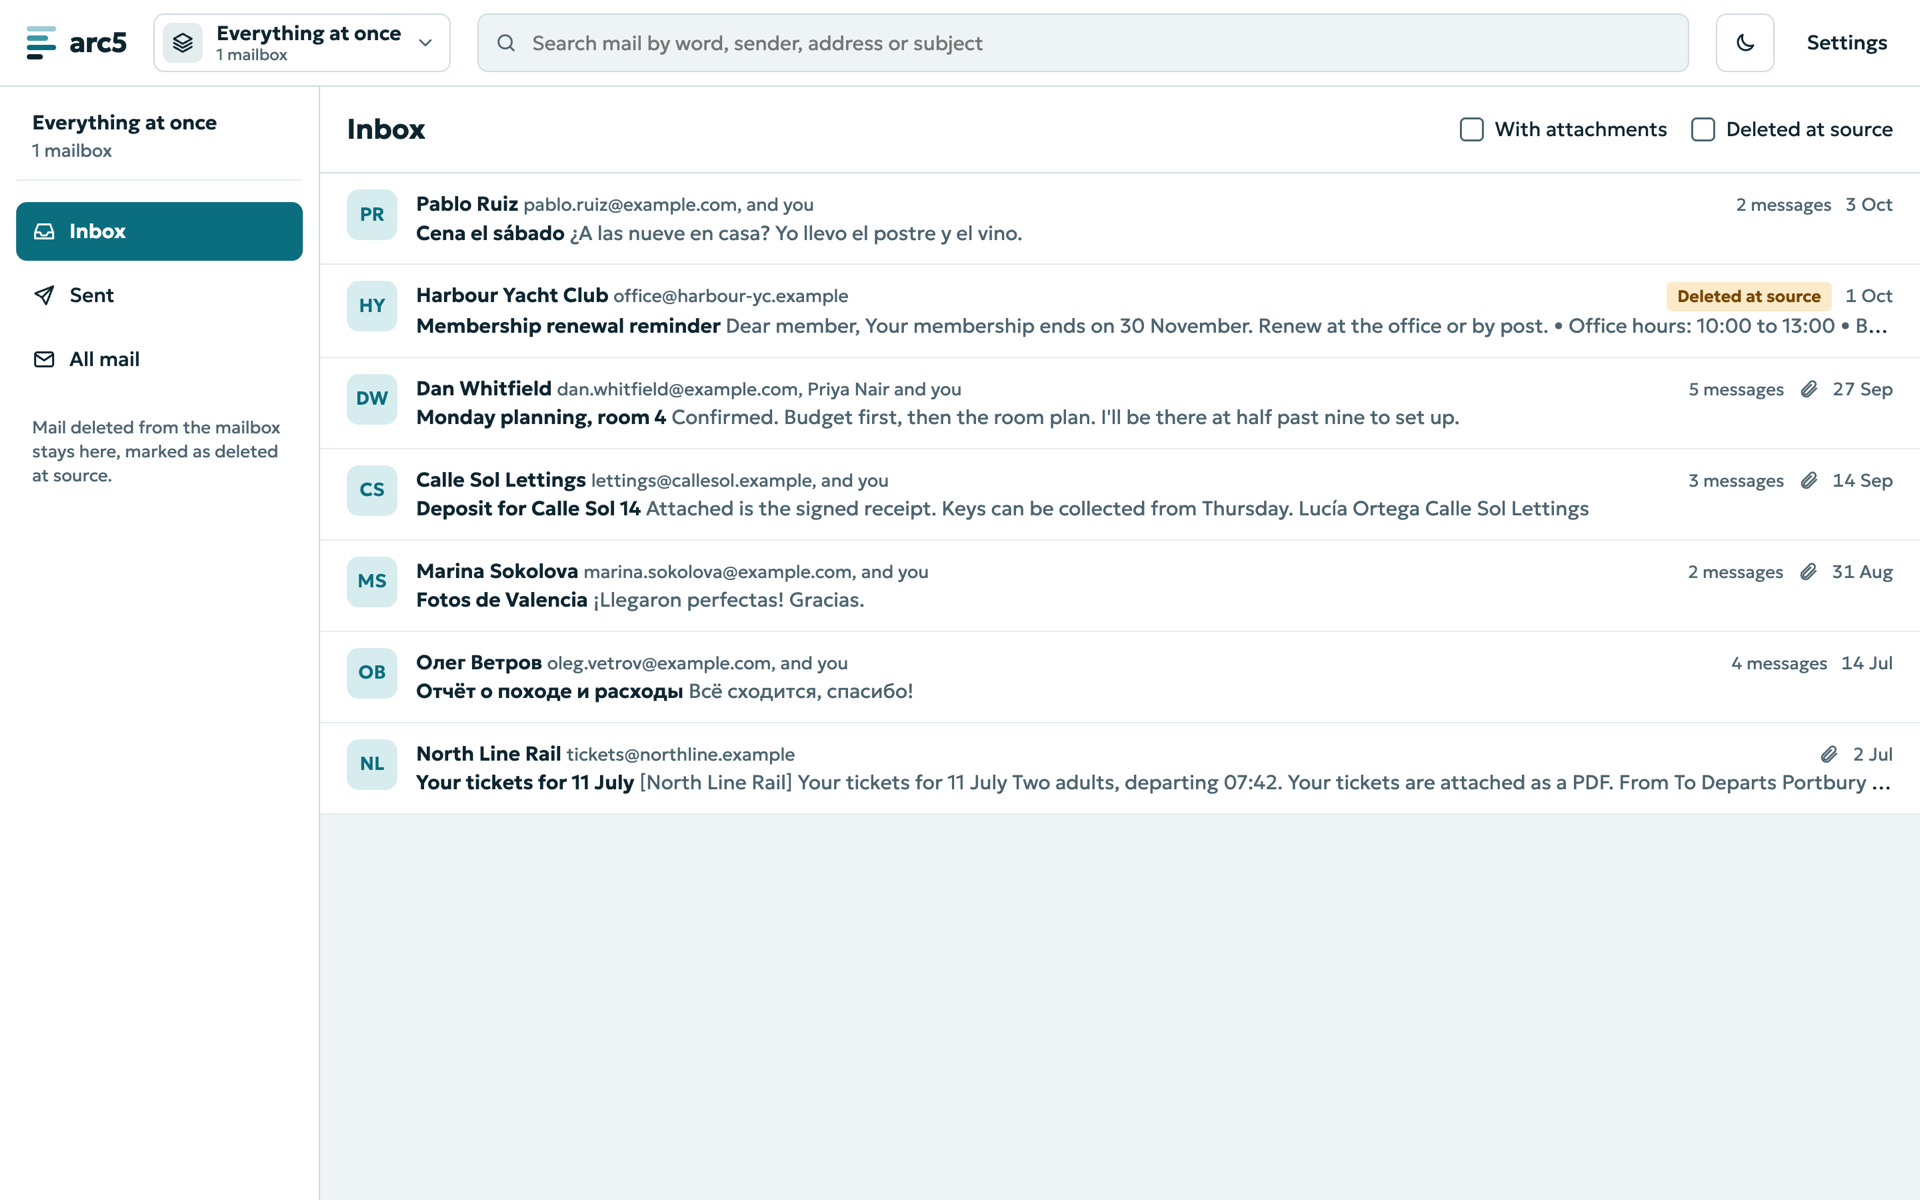
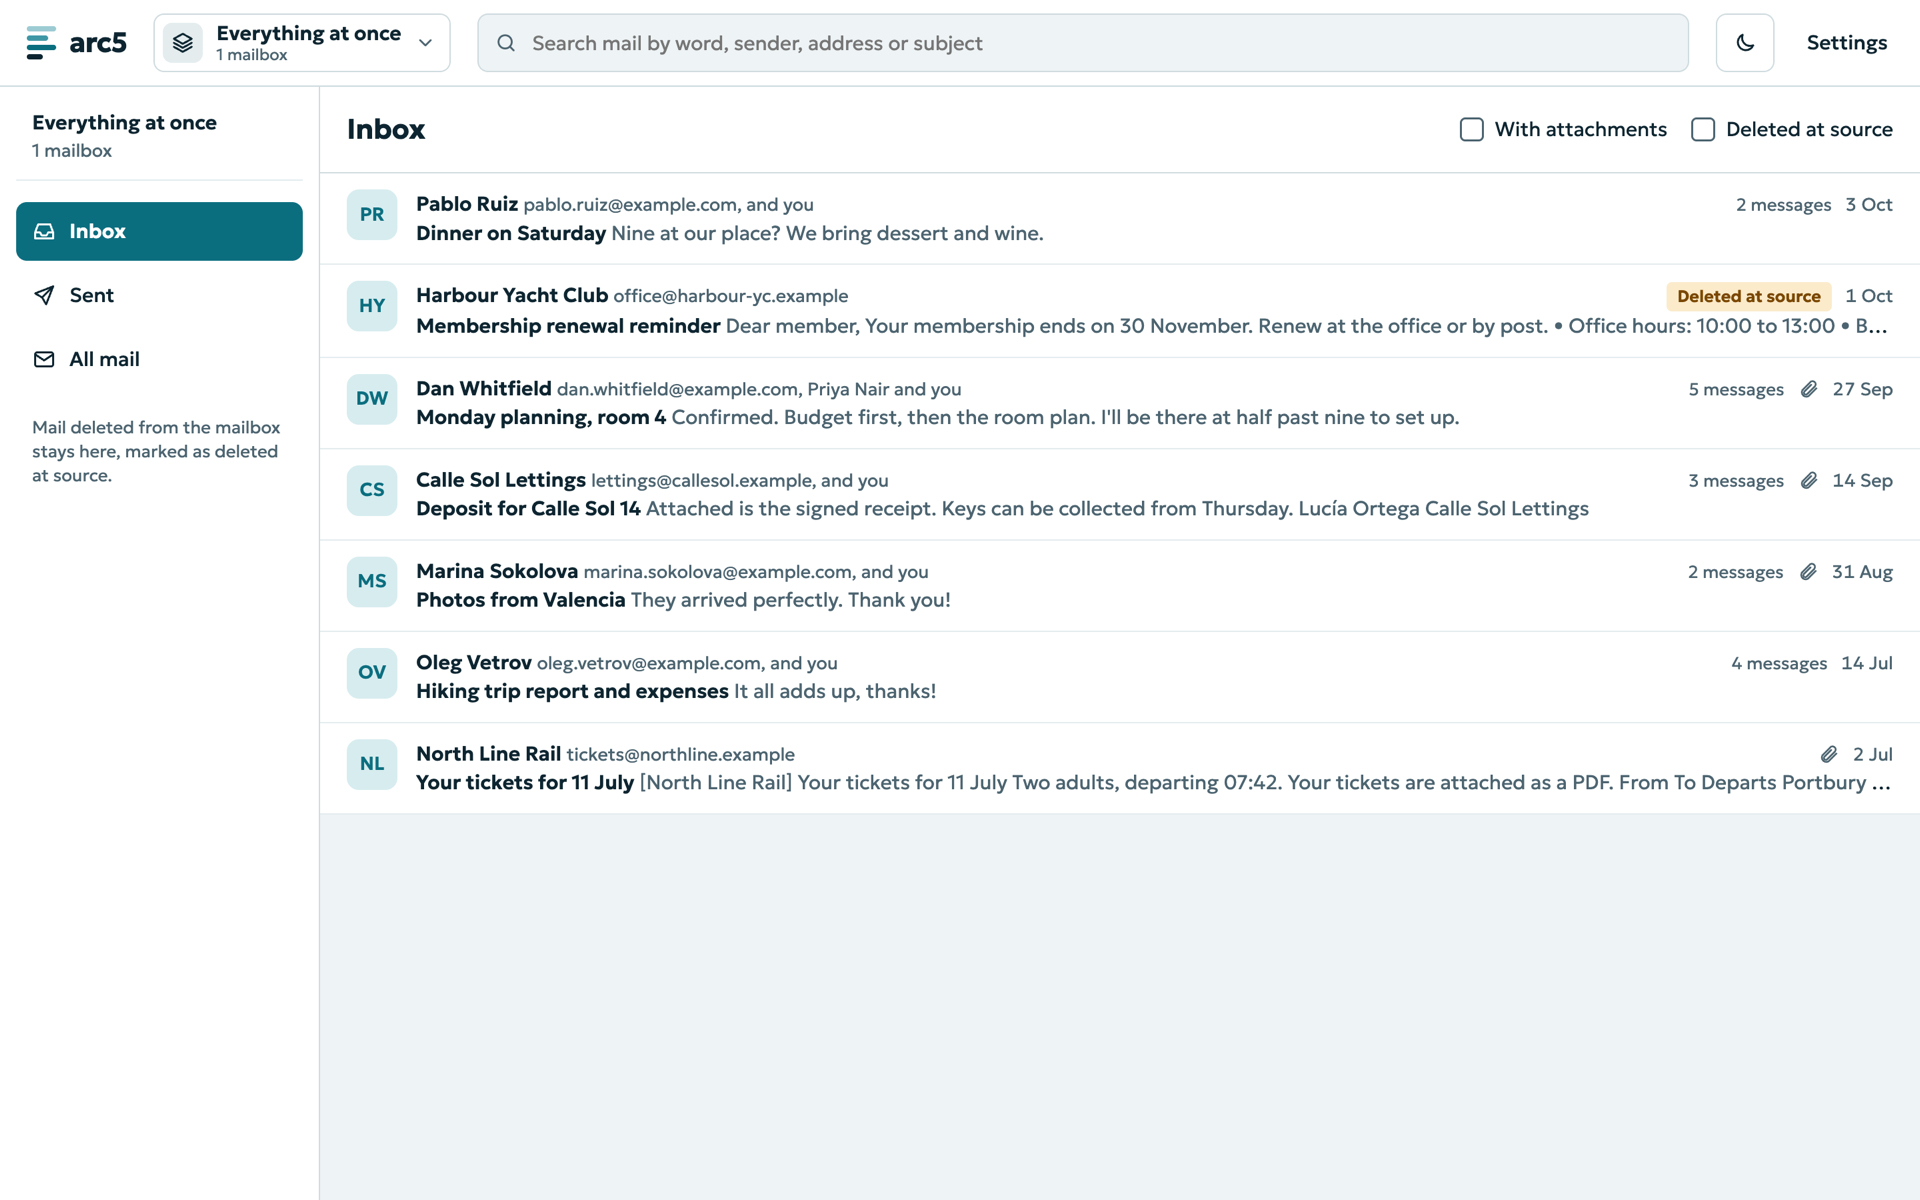
Make the demo archive English and retake the README screenshots
The demo's Russian and Spanish chats and mail are translated into English so
the screenshots read for anyone; the names stay. Search tests that cover
other languages keep their own fixtures.

Changed region(s): [[0.2188, 0.4933, 0.5, 0.5858], [0.2188, 0.185, 0.5312, 0.2158]]

diff --git a/internal/connector/demo/mail.go b/internal/connector/demo/mail.go
@@ -161,24 +161,24 @@ func seedMail(store *archive.Store) error {
 	)
 	photo := func(bg, fg color.RGBA) []byte { return portrait(bg, fg) }
 	letters := []letter{
-		{id: "olg-1@example.com", from: "Олег Ветров <oleg.vetrov@example.com>", to: me, subject: "Отчёт о походе и расходы", date: on(time.July, 12, 19, 5),
-			plain: "Привет! Выложил фото с похода. Расходы сведу к выходным.", folders: []string{"INBOX"}},
-		{id: "olg-2@example.org", inReplyTo: "olg-1@example.com", refs: []string{"olg-1@example.com"}, from: me, to: "Олег Ветров <oleg.vetrov@example.com>",
-			subject: "Re: Отчёт о походе и расходы", date: on(time.July, 12, 21, 30), plain: "Отлично, жду таблицу.", folders: []string{"Sent"}},
-		{id: "olg-3@example.com", inReplyTo: "olg-2@example.org", refs: []string{"olg-1@example.com", "olg-2@example.org"}, from: "Олег Ветров <oleg.vetrov@example.com>", to: me,
-			subject: "Re: Отчёт о походе и расходы", date: on(time.July, 14, 8, 15), plain: "Свёл расходы в таблицу, посмотрите, всё ли сходится.\n\nОлег", folders: []string{"INBOX"}},
-		{id: "olg-4@example.org", inReplyTo: "olg-3@example.com", refs: []string{"olg-1@example.com", "olg-3@example.com"}, from: me, to: "Олег Ветров <oleg.vetrov@example.com>",
-			subject: "Re: Отчёт о походе и расходы", date: on(time.July, 14, 9, 2), plain: "Всё сходится, спасибо!\n\n> Свёл расходы в таблицу, посмотрите, всё ли сходится.", folders: []string{"Sent"}},
+		{id: "olg-1@example.com", from: "Oleg Vetrov <oleg.vetrov@example.com>", to: me, subject: "Hiking trip report and expenses", date: on(time.July, 12, 19, 5),
+			plain: "Hi! Posted the photos from the hike. I will total up the costs by the weekend.", folders: []string{"INBOX"}},
+		{id: "olg-2@example.org", inReplyTo: "olg-1@example.com", refs: []string{"olg-1@example.com"}, from: me, to: "Oleg Vetrov <oleg.vetrov@example.com>",
+			subject: "Re: Hiking trip report and expenses", date: on(time.July, 12, 21, 30), plain: "Great, looking forward to the spreadsheet.", folders: []string{"Sent"}},
+		{id: "olg-3@example.com", inReplyTo: "olg-2@example.org", refs: []string{"olg-1@example.com", "olg-2@example.org"}, from: "Oleg Vetrov <oleg.vetrov@example.com>", to: me,
+			subject: "Re: Hiking trip report and expenses", date: on(time.July, 14, 8, 15), plain: "Put the costs in a spreadsheet, please check it all adds up.\n\nOleg", folders: []string{"INBOX"}},
+		{id: "olg-4@example.org", inReplyTo: "olg-3@example.com", refs: []string{"olg-1@example.com", "olg-3@example.com"}, from: me, to: "Oleg Vetrov <oleg.vetrov@example.com>",
+			subject: "Re: Hiking trip report and expenses", date: on(time.July, 14, 9, 2), plain: "It all adds up, thanks!\n\n> Put the costs in a spreadsheet, please check it all adds up.", folders: []string{"Sent"}},
 
 		{id: "nl-4471@northline.example", from: "North Line Rail <tickets@northline.example>", to: mailAddress, subject: "Your tickets for 11 July", date: on(time.July, 2, 10, 0),
 			html: ticketsHTML, files: []sampleFile{{"tickets-NL-4471.pdf", "application/pdf", pdf("Tickets NL-4471", 41_000)}}, folders: []string{"INBOX", "Receipts"}},
 
-		{id: "val-1@example.com", from: "Marina Sokolova <marina.sokolova@example.com>", to: me, subject: "Fotos de Valencia", date: on(time.August, 31, 18, 20),
-			plain: "Te mando las originales, pesan bastante. Dime si llegan bien.\n\nMarina",
-			files: []sampleFile{{"valencia-playa.png", "image/png", photo(color.RGBA{0x3E, 0x7C, 0xB1, 0xFF}, color.RGBA{0xF2, 0xD7, 0x9E, 0xFF})},
-				{"valencia-mercado.png", "image/png", photo(color.RGBA{0xB1, 0x5E, 0x3E, 0xFF}, color.RGBA{0xF6, 0xE7, 0xC8, 0xFF})}}, folders: []string{"INBOX"}},
+		{id: "val-1@example.com", from: "Marina Sokolova <marina.sokolova@example.com>", to: me, subject: "Photos from Valencia", date: on(time.August, 31, 18, 20),
+			plain: "Here are the originals, they are quite big. Tell me if they arrive.\n\nMarina",
+			files: []sampleFile{{"valencia-beach.png", "image/png", photo(color.RGBA{0x3E, 0x7C, 0xB1, 0xFF}, color.RGBA{0xF2, 0xD7, 0x9E, 0xFF})},
+				{"valencia-market.png", "image/png", photo(color.RGBA{0xB1, 0x5E, 0x3E, 0xFF}, color.RGBA{0xF6, 0xE7, 0xC8, 0xFF})}}, folders: []string{"INBOX"}},
 		{id: "val-2@example.org", inReplyTo: "val-1@example.com", refs: []string{"val-1@example.com"}, from: me, to: "Marina Sokolova <marina.sokolova@example.com>",
-			subject: "Re: Fotos de Valencia", date: on(time.August, 31, 20, 2), plain: "¡Llegaron perfectas! Gracias.", folders: []string{"Sent"}},
+			subject: "Re: Photos from Valencia", date: on(time.August, 31, 20, 2), plain: "They arrived perfectly. Thank you!", folders: []string{"Sent"}},
 
 		{id: "cs-1@example.org", from: me, to: "Calle Sol Lettings <lettings@callesol.example>", subject: "Deposit for Calle Sol 14", date: on(time.September, 12, 9, 30),
 			plain: "Hello,\n\nI sent the deposit for Calle Sol 14 this morning. Could you confirm when it arrives?\n\nThanks", folders: []string{"Sent"}},
@@ -205,10 +205,10 @@ func seedMail(store *archive.Store) error {
 		{id: "hyc-renewal@harbour-yc.example", from: "Harbour Yacht Club <office@harbour-yc.example>", to: mailAddress, subject: "Membership renewal reminder", date: on(time.October, 1, 8, 0),
 			html: renewalHTML, folders: []string{"INBOX"}},
 
-		{id: "cena-1@example.org", from: me, to: "Pablo Ruiz <pablo.ruiz@example.com>", subject: "Cena el sábado", date: on(time.October, 3, 12, 10),
-			plain: "¿Os apetece cenar el sábado?", folders: []string{"Sent"}},
+		{id: "cena-1@example.org", from: me, to: "Pablo Ruiz <pablo.ruiz@example.com>", subject: "Dinner on Saturday", date: on(time.October, 3, 12, 10),
+			plain: "Dinner on Saturday, anyone?", folders: []string{"Sent"}},
 		{id: "cena-2@example.com", inReplyTo: "cena-1@example.org", refs: []string{"cena-1@example.org"}, from: "Pablo Ruiz <pablo.ruiz@example.com>", to: me,
-			subject: "Re: Cena el sábado", date: on(time.October, 3, 18, 2), plain: "¿A las nueve en casa? Yo llevo el postre y el vino.", folders: []string{"INBOX"}},
+			subject: "Re: Dinner on Saturday", date: on(time.October, 3, 18, 2), plain: "Nine at our place? We bring dessert and wine.", folders: []string{"INBOX"}},
 	}
 	own := func(address string) bool { return address == mailAddress }
 	next := map[string]uint32{}  // the next UID of each folder

diff --git a/internal/web/mail_test.go b/internal/web/mail_test.go
@@ -113,10 +113,10 @@ func TestMailInbox(t *testing.T) {
 		`<h1 class="mail-head__title">Inbox</h1>`, "With attachments", "Deleted at source",
 		// The rows of the mockup.
 		`<span class="mrow__name">Pablo Ruiz</span>`, "pablo.ruiz@example.com, and you", "2 messages", "3 Oct",
-		`<span class="mrow__subject">Cena el sábado</span>`, "¿A las nueve en casa? Yo llevo el postre y el vino.",
+		`<span class="mrow__subject">Dinner on Saturday</span>`, "Nine at our place? We bring dessert and wine.",
 		"Harbour Yacht Club", `<span class="tag tag--warn">Deleted at source</span>`,
 		"Dan Whitfield", "dan.whitfield@example.com, Priya Nair and you", "5 messages", `aria-label="Has attachment"`, "27 Sep",
-		`<span class="avatar mrow__avatar" aria-hidden="true">DW</span>`, "Олег Ветров", "14 Jul",
+		`<span class="avatar mrow__avatar" aria-hidden="true">DW</span>`, "Oleg Vetrov", "14 Jul",
 		fmt.Sprintf(`href="/s/%d/c/%d"`, m.box, m.thread("Monday planning, room 4")),
 		`placeholder="Search mail by word, sender, address or subject"`,
 		// The demo mailbox wears the mail logo in the picker.
@@ -137,16 +137,16 @@ func TestMailFolders(t *testing.T) {
 	t.Parallel()
 	m := newMailSite(t)
 	sent := m.page(fmt.Sprintf("/s/%d?folder=sent", m.box))
-	has(t, sent, `<h1 class="mail-head__title">Sent</h1>`, "Cena el sábado", "Deposit for Calle Sol 14")
+	has(t, sent, `<h1 class="mail-head__title">Sent</h1>`, "Dinner on Saturday", "Deposit for Calle Sol 14")
 	lacks(t, sent, "Membership renewal reminder", "Your tickets for 11 July")
 
 	receipts := m.page(fmt.Sprintf("/s/%d?folder=f%d", m.box, m.folder("Receipts")))
 	has(t, receipts, `<h1 class="mail-head__title">Receipts</h1>`, "Your tickets for 11 July", "Deposit for Calle Sol 14",
 		fmt.Sprintf(`<a class="folder folder--current" href="/s/%d?folder=f%d" aria-current="page">`, m.box, m.folder("Receipts")))
-	lacks(t, receipts, "Cena el sábado")
+	lacks(t, receipts, "Dinner on Saturday")
 
 	all := m.page(fmt.Sprintf("/s/%d?folder=all", m.box))
-	has(t, all, `<h1 class="mail-head__title">All mail</h1>`, "Cena el sábado", "Your tickets for 11 July")
+	has(t, all, `<h1 class="mail-head__title">All mail</h1>`, "Dinner on Saturday", "Your tickets for 11 July")
 
 	for _, bad := range []string{"f999999", "fnope", "trash", "f" + fmt.Sprint(m.folder("Trash"))} {
 		if rec := m.get(fmt.Sprintf("/s/%d?folder=%s", m.box, bad)); rec.Code != http.StatusNotFound {
@@ -164,13 +164,13 @@ func TestMailFilters(t *testing.T) {
 	t.Parallel()
 	m := newMailSite(t)
 	files := m.page(fmt.Sprintf("/s/%d?folder=inbox&files=1", m.box))
-	has(t, files, "Monday planning, room 4", "Fotos de Valencia", "Your tickets for 11 July",
+	has(t, files, "Monday planning, room 4", "Photos from Valencia", "Your tickets for 11 July",
 		fmt.Sprintf(`<a class="check check--on" role="checkbox" aria-checked="true" href="/s/%d?folder=inbox">`, m.box))
-	lacks(t, files, "Cena el sábado", "Membership renewal reminder")
+	lacks(t, files, "Dinner on Saturday", "Membership renewal reminder")
 
 	deleted := m.page(fmt.Sprintf("/s/%d?folder=inbox&deleted=1", m.box))
 	has(t, deleted, "Membership renewal reminder", "Monday planning, room 4")
-	lacks(t, deleted, "Cena el sábado")
+	lacks(t, deleted, "Dinner on Saturday")
 
 	inbox := m.page(fmt.Sprintf("/s/%d", m.box))
 	has(t, inbox, fmt.Sprintf(`<a class="check" role="checkbox" aria-checked="false" href="/s/%d?folder=inbox&amp;files=1">`, m.box))
@@ -199,7 +199,7 @@ func TestMailPaging(t *testing.T) {
 	}
 	has(t, first, fmt.Sprintf(`href="/s/%d?folder=inbox&amp;page=2">Older conversations</a>`, m.box), "Bulk 59")
 	second := m.page(fmt.Sprintf("/s/%d?folder=inbox&page=2", m.box))
-	has(t, second, "Bulk 09", "Cena el sábado", "Отчёт о походе и расходы")
+	has(t, second, "Bulk 09", "Dinner on Saturday", "Hiking trip report and expenses")
 	lacks(t, second, "Bulk 59", "Older conversations")
 }
 
@@ -207,8 +207,8 @@ func TestEverythingAtOnceMail(t *testing.T) {
 	t.Parallel()
 	m := newMailSite(t)
 	body := m.page("/s/mail")
-	has(t, body, `<div class="folders__name">Everything at once</div>`, `href="/s/mail?folder=sent"`, "Cena el sábado",
-		fmt.Sprintf(`href="/s/mail/c/%d"`, m.thread("Cena el sábado")))
+	has(t, body, `<div class="folders__name">Everything at once</div>`, `href="/s/mail?folder=sent"`, "Dinner on Saturday",
+		fmt.Sprintf(`href="/s/mail/c/%d"`, m.thread("Dinner on Saturday")))
 	lacks(t, body, "Receipts")
 	if rec := m.get("/s/mail?folder=f1"); rec.Code != http.StatusNotFound {
 		t.Errorf("a folder of one mailbox under everything: %d", rec.Code)

diff --git a/internal/connector/demo/demo.go b/internal/connector/demo/demo.go
@@ -155,15 +155,15 @@ func Seed(store *archive.Store) (bool, error) {
 
 	for _, s := range []model.Sender{
 		{SourceID: "dan", DisplayName: "Dan Whitfield"}, {SourceID: "marina", DisplayName: "Marina Sokolova", Username: "marina_s"},
-		{SourceID: "pablo", DisplayName: "Pablo Ruiz"}, {SourceID: "oleg", DisplayName: "Олег Ветров"},
+		{SourceID: "pablo", DisplayName: "Pablo Ruiz"}, {SourceID: "oleg", DisplayName: "Oleg Vetrov"},
 	} {
 		b.do(store.UpsertSender(acc, s))
 	}
 	for _, c := range []model.Chat{
 		{SourceID: "dan", Kind: model.ChatPrivate, Title: "Dan Whitfield"},
 		{SourceID: "marina", Kind: model.ChatPrivate, Title: "Marina Sokolova"},
-		{SourceID: "familia", Kind: model.ChatGroup, Title: "Familia: Marina y Pablo"},
-		{SourceID: "hikes", Kind: model.ChatGroup, Title: "Походы 2026"},
+		{SourceID: "familia", Kind: model.ChatGroup, Title: "Family: Marina and Pablo"},
+		{SourceID: "hikes", Kind: model.ChatGroup, Title: "Hikes 2026"},
 		{SourceID: "saved", Kind: model.ChatPrivate, Title: "Saved Messages"},
 	} {
 		b.do(store.UpsertChat(acc, c))
@@ -223,12 +223,12 @@ func Seed(store *archive.Store) (bool, error) {
 	b.put(once)
 	b.say("dan", "", at(0, 19, 3), "Got her. Traffic is bad, we'll be there around eight.", true)
 
-	b.say("marina", "", at(2, 20, 15), "Долетела нормально?", true)
-	b.say("marina", "marina", at(2, 20, 31), "Спасибо, что встретил! Чемодан нашёлся, всё хорошо.", false)
-	b.say("familia", "marina", at(4, 20, 50), "¿Alguien ha visto mis llaves?", false)
-	b.say("familia", "pablo", at(4, 21, 14), "Dile a Marina que las llaves están en el buzón, por favor.", false)
-	b.say("hikes", "oleg", at(10, 7, 5), "Маршрут на субботу в закрепе. Встречаемся у причала в восемь.", false)
-	b.say("hikes", "", at(10, 7, 40), "Буду. Беру горелку и чай.", true)
+	b.say("marina", "", at(2, 20, 15), "Did you land all right?", true)
+	b.say("marina", "marina", at(2, 20, 31), "Thanks for picking me up! The suitcase turned up, all good.", false)
+	b.say("familia", "marina", at(4, 20, 50), "Has anyone seen my keys?", false)
+	b.say("familia", "pablo", at(4, 21, 14), "Tell Marina the keys are in the letterbox, please.", false)
+	b.say("hikes", "oleg", at(10, 7, 5), "The route for Saturday is pinned. We meet at the pier at eight.", false)
+	b.say("hikes", "", at(10, 7, 40), "I am in. Bringing the stove and tea.", true)
 	b.say("saved", "", at(25, 9, 0), "Passport renewal: form 11, two photos, old passport.", true)
 	if b.err != nil {
 		return true, b.err

diff --git a/internal/connector/demo/demo_test.go b/internal/connector/demo/demo_test.go
@@ -35,19 +35,19 @@ func TestSeedBuildsAnArchiveOnce(t *testing.T) {
 	for _, c := range chats {
 		titles[c.Title] = c
 	}
-	for _, want := range []string{"Dan Whitfield", "Marina Sokolova", "Familia: Marina y Pablo", "Походы 2026", "Saved Messages"} {
+	for _, want := range []string{"Dan Whitfield", "Marina Sokolova", "Family: Marina and Pablo", "Hikes 2026", "Saved Messages"} {
 		if _, ok := titles[want]; !ok {
 			t.Errorf("no chat titled %q in %v", want, chats)
 		}
 	}
 
 	dan := titles["Dan Whitfield"]
-	for _, title := range []string{"Dan Whitfield", "Marina Sokolova", "Familia: Marina y Pablo"} {
+	for _, title := range []string{"Dan Whitfield", "Marina Sokolova", "Family: Marina and Pablo"} {
 		if titles[title].AvatarSHA == "" {
 			t.Errorf("%s has no picture", title)
 		}
 	}
-	if titles["Походы 2026"].AvatarSHA != "" {
+	if titles["Hikes 2026"].AvatarSHA != "" {
 		t.Error("every chat has a picture; the demo should show initials too")
 	}
 	all, err := store.ChatMessages(dan.ID, archive.Anchor{}, 1000)

diff --git a/internal/web/mailthread_test.go b/internal/web/mailthread_test.go
@@ -75,9 +75,9 @@ func TestWaitingFileCanBeFetched(t *testing.T) {
 func TestThreadFoldsQuotes(t *testing.T) {
 	t.Parallel()
 	m := newMailSite(t)
-	body := m.page(fmt.Sprintf("/s/%d/c/%d", m.box, m.thread("Отчёт о походе и расходы")))
-	has(t, body, "Всё сходится, спасибо!",
-		`<details class="quote"><summary>Show quoted text</summary>`, "&gt; Свёл расходы в таблицу")
+	body := m.page(fmt.Sprintf("/s/%d/c/%d", m.box, m.thread("Hiking trip report and expenses")))
+	has(t, body, "It all adds up, thanks!",
+		`<details class="quote"><summary>Show quoted text</summary>`, "&gt; Put the costs in a spreadsheet")
 	planning := m.page(fmt.Sprintf("/s/%d/c/%d", m.box, m.thread("Monday planning, room 4")))
 	// The owner's reply quotes Dan: the lead line goes with the quote.
 	has(t, planning, "Monday works. I can bring the projector if room 4 is free.")

diff --git a/internal/connector/demo/mail_test.go b/internal/connector/demo/mail_test.go
@@ -41,8 +41,8 @@ func TestSeedWritesAMailbox(t *testing.T) {
 		return out
 	}
 	inbox := titles(archive.ThreadFilter{Role: model.FolderInbox})
-	want := []string{"Cena el sábado", "Membership renewal reminder", "Monday planning, room 4", "Deposit for Calle Sol 14",
-		"Fotos de Valencia", "Отчёт о походе и расходы", "Your tickets for 11 July"}
+	want := []string{"Dinner on Saturday", "Membership renewal reminder", "Monday planning, room 4", "Deposit for Calle Sol 14",
+		"Photos from Valencia", "Hiking trip report and expenses", "Your tickets for 11 July"}
 	if !slices.Equal(inbox, want) {
 		t.Errorf("inbox = %q", inbox)
 	}

diff --git a/internal/web/mailsearch_test.go b/internal/web/mailsearch_test.go
@@ -37,7 +37,7 @@ func TestMailSearch(t *testing.T) {
 	has(t, frag, `<mark class="hit">projector</mark>`)
 	lacks(t, frag, "<html", `<nav class="folders"`)
 	empty := m.get(fmt.Sprintf("/s/%d/results?q=", m.box)).Body.String()
-	has(t, empty, `<h1 class="mail-head__title">Inbox</h1>`, "Cena el sábado")
+	has(t, empty, `<h1 class="mail-head__title">Inbox</h1>`, "Dinner on Saturday")
 }
 
 func TestChooseFolders(t *testing.T) {
